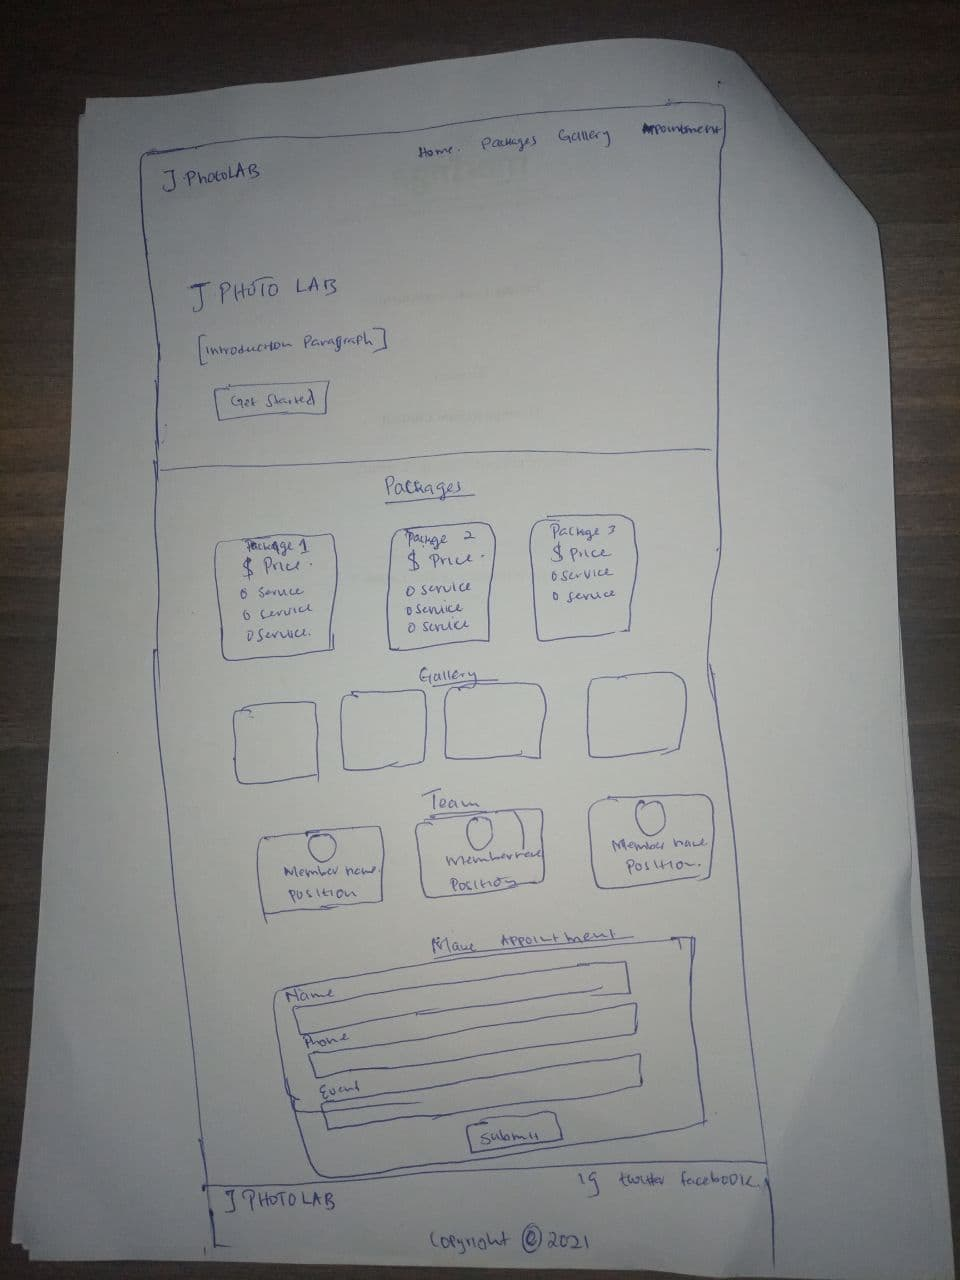
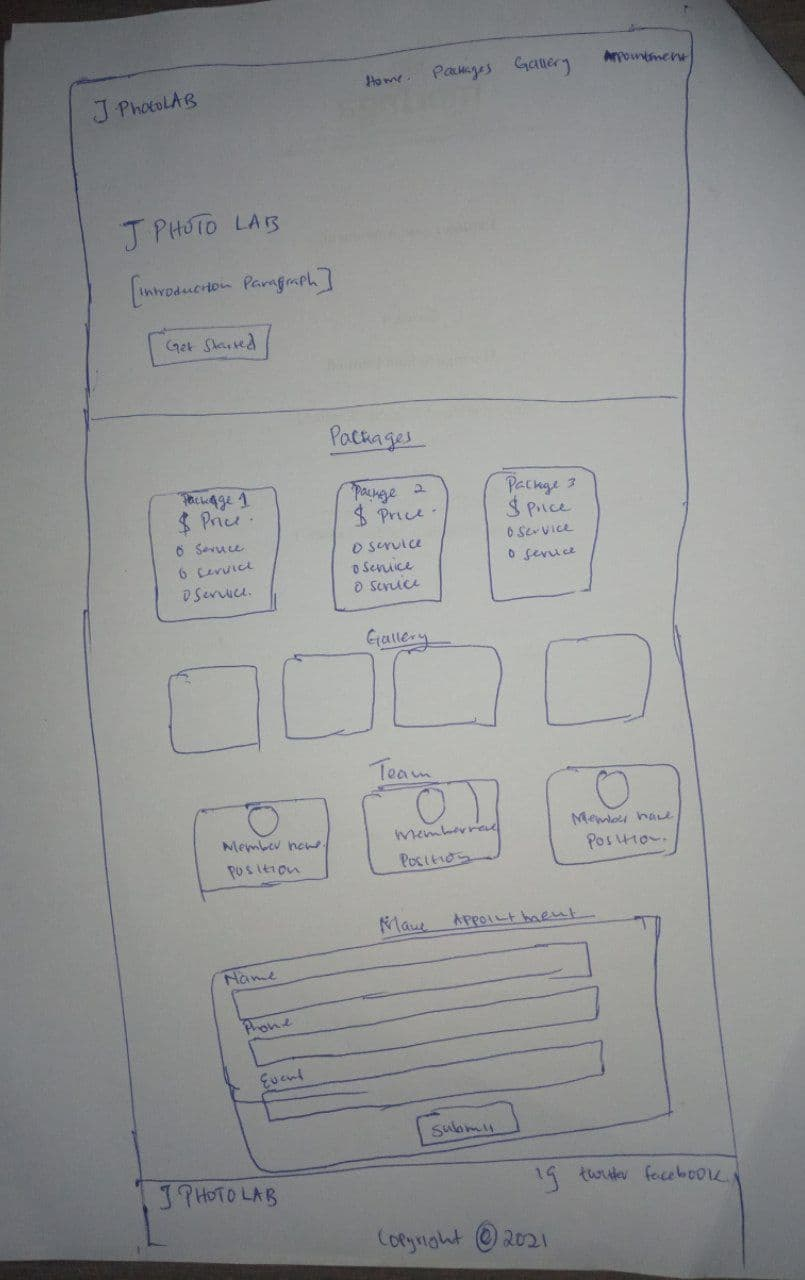
added design image

diff --git a/README.md b/README.md
@@ -14,6 +14,10 @@
 1. HTML
 1. CSS
 
+## Design
+## A simple design of the website
+![Design](./design.jpg)
+
 ## Screenshot
 ![screenshot](./screenshot.png)
 ## Contact Details
